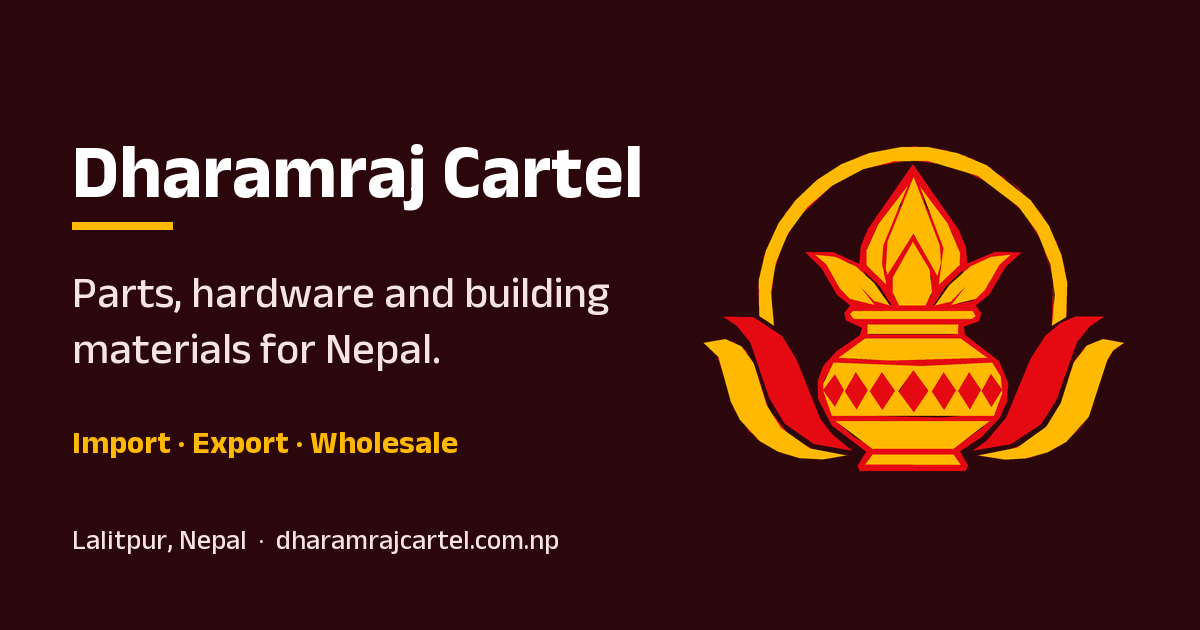
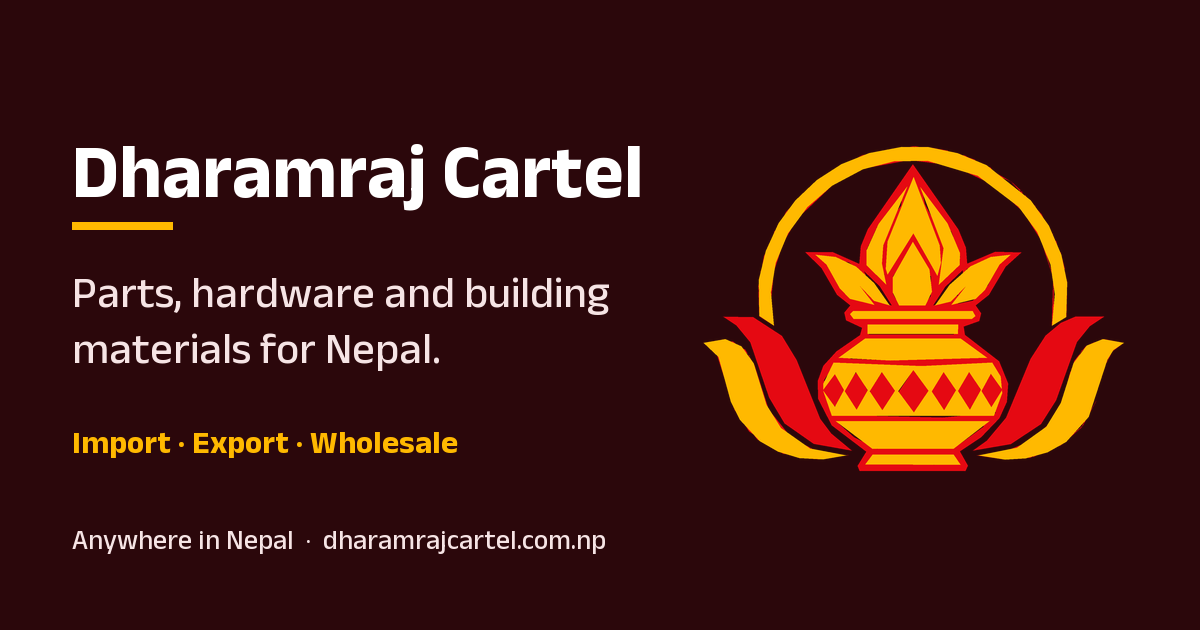
Remove the office address; present the business as serving all of Nepal
The firm travels to customers across Nepal, so the Lalitpur office
address is removed from the footer, the legal page, the share image and
the structured data.

- Footer (all pages): "We come to you, anywhere in Nepal. / नेपालभरि सेवा"
- Legal page: "We serve customers across Nepal."
- schema.org: Organization with addressCountry NP and areaServed Nepal
  (no street address)
- Share image: "Anywhere in Nepal"

Changed region(s): [[0.0617, 0.8444, 0.5242, 0.8746]]

diff --git a/legal.html b/legal.html
@@ -39,7 +39,7 @@
 <section class="page-head"><div class="wrap"><h1>Terms, privacy and returns</h1></div></section>
 <div class="wrap"><div class="legal">
 <h2>Who we are</h2>
-<p>Dharamraj Cartel is a private firm registered in Nepal, Firm Reg. No. 001-2880 (registered 2083-08-01 B.S.), Department of Commerce, Supplies and Consumer Protection. Address: Lalitpur Metropolitan City-25, Saibu, Lalitpur, Nepal. We sell directly and do not run a marketplace for other sellers.</p>
+<p>Dharamraj Cartel is a private firm registered in Nepal, Firm Reg. No. 001-2880 (registered 2083-08-01 B.S.), Department of Commerce, Supplies and Consumer Protection. We serve customers across Nepal. We sell directly and do not run a marketplace for other sellers.</p>
 <h2>Orders and payment</h2>
 <p>This website takes enquiries only. It does not take orders or payments. Price, specification, delivery and payment terms are agreed with you before an order is confirmed.</p>
 <h2 id="returns">Returns</h2>
@@ -47,7 +47,7 @@
 <h2 id="privacy">Privacy</h2>
 <p>The enquiry form prepares a WhatsApp message in your browser. We receive your details only if you send that message, and we use them to answer your enquiry and handle any order. Messages you send are also handled by WhatsApp. This site is hosted on Cloudflare Pages and loads fonts from Google Fonts, which may receive technical data such as your IP address. To ask about your information, please contact us.</p>
 <h2 id="complaints">Complaints and contact</h2>
-<p>Phone and WhatsApp: <a href="tel:+9779845656595">+977 9845656595</a><br>Email: <a href="mailto:dharamrajcartel@gmail.com">dharamrajcartel@gmail.com</a><br>Address: Lalitpur Metropolitan City-25, Saibu, Lalitpur, Nepal</p>
+<p>Phone and WhatsApp: <a href="tel:+9779845656595">+977 9845656595</a><br>Email: <a href="mailto:dharamrajcartel@gmail.com">dharamrajcartel@gmail.com</a></p>
 </div></div>
 </main>
 <footer id="contact">
@@ -62,7 +62,7 @@
     <div>
       <h2>Registered firm</h2>
       <p>Dharamraj Cartel<br>Firm Reg. No. 001-2880 (registered 2083-08-01 B.S.)<br>Department of Commerce, Supplies and Consumer Protection</p>
-      <p>Lalitpur Metropolitan City-25, Saibu<br>Lalitpur, Nepal</p>
+      <p>We come to you, anywhere in Nepal.<br><span lang="ne">नेपालभरि सेवा</span></p>
       <p>We sell directly. We are not a marketplace.</p>
     </div>
     <div>

diff --git a/index.html b/index.html
@@ -24,23 +24,23 @@
 <script type="application/ld+json">
 {
  "@context": "https://schema.org",
- "@type": "Store",
+ "@type": "Organization",
  "name": "Dharamraj Cartel",
  "alternateName": "धर्मराज कार्टेल",
  "url": "https://www.dharamrajcartel.com.np/",
  "logo": "https://www.dharamrajcartel.com.np/icon-512.png",
  "image": "https://www.dharamrajcartel.com.np/og-image.png",
- "description": "Import, export and wholesale of vehicle spare parts, electrical goods and electronics, hardware, construction materials and machinery parts.",
+ "description": "Import, export and wholesale of vehicle spare parts, electrical goods and electronics, hardware, construction materials and machinery parts, serving customers anywhere in Nepal.",
  "telephone": "+977-9845656595",
  "email": "dharamrajcartel@gmail.com",
  "address": {
   "@type": "PostalAddress",
-  "streetAddress": "Saibu, Ward 25",
-  "addressLocality": "Lalitpur",
-  "addressRegion": "Bagmati Province",
   "addressCountry": "NP"
  },
- "areaServed": "Nepal"
+ "areaServed": {
+  "@type": "Country",
+  "name": "Nepal"
+ }
 }
 </script>
 <link rel="preconnect" href="https://fonts.googleapis.com">
@@ -133,7 +133,7 @@
     <div>
       <h2>Registered firm</h2>
       <p>Dharamraj Cartel<br>Firm Reg. No. 001-2880 (registered 2083-08-01 B.S.)<br>Department of Commerce, Supplies and Consumer Protection</p>
-      <p>Lalitpur Metropolitan City-25, Saibu<br>Lalitpur, Nepal</p>
+      <p>We come to you, anywhere in Nepal.<br><span lang="ne">नेपालभरि सेवा</span></p>
       <p>We sell directly. We are not a marketplace.</p>
     </div>
     <div>

diff --git a/404.html b/404.html
@@ -40,7 +40,7 @@
     <div>
       <h2>Registered firm</h2>
       <p>Dharamraj Cartel<br>Firm Reg. No. 001-2880 (registered 2083-08-01 B.S.)<br>Department of Commerce, Supplies and Consumer Protection</p>
-      <p>Lalitpur Metropolitan City-25, Saibu<br>Lalitpur, Nepal</p>
+      <p>We come to you, anywhere in Nepal.<br><span lang="ne">नेपालभरि सेवा</span></p>
       <p>We sell directly. We are not a marketplace.</p>
     </div>
     <div>

diff --git a/products.html b/products.html
@@ -61,7 +61,7 @@
     <div>
       <h2>Registered firm</h2>
       <p>Dharamraj Cartel<br>Firm Reg. No. 001-2880 (registered 2083-08-01 B.S.)<br>Department of Commerce, Supplies and Consumer Protection</p>
-      <p>Lalitpur Metropolitan City-25, Saibu<br>Lalitpur, Nepal</p>
+      <p>We come to you, anywhere in Nepal.<br><span lang="ne">नेपालभरि सेवा</span></p>
       <p>We sell directly. We are not a marketplace.</p>
     </div>
     <div>
